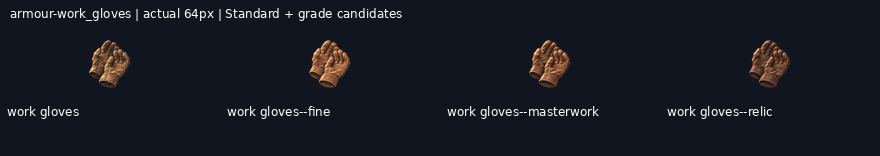
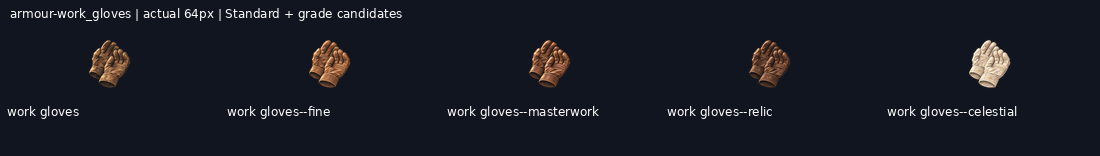
art: draw armour-work_gloves--celestial grade candidate

diff --git a/tools/art/export_nov19_grades.py b/tools/art/export_nov19_grades.py
@@ -116,6 +116,13 @@ def update_handoff(queue,progress):
         'Sources, versioned masters, exact prompts/reference hashes,256/128/64/32 exports and grade comparison sheets are retained. '
         'Standards and earlier deliveries are unchanged. This sparse checkout cannot validate omitted historical files; '
         'full-library validation/build is an integration check on a full checkout.\n\n'
+        'Tomorrow: fetch this branch and develop safely, read the latest issue 3 comments and this queue before drawing. '
+        'Skip only delivered new candidates; preserve every source, master, correction attempt and export. '
+        'Do not retry a recorded quota before its exact returned reset. Do not repeatedly resubmit moderation-blocked requests.\n\n'
+        'Peer audit: [coordination/peer-audit-2026-11-19.md](coordination/peer-audit-2026-11-19.md). '
+        'Peer58 masters/232 exports and12 canonical imports were checked. Faint alpha<8 margin residue requires versioned technical cleanup; '
+        'check its subsequent correction manifest before claiming that cleanup is complete. '
+        'Peer quota resets20 November2026 at09:45:39 Bangkok time; this does not establish this session’s quota.\n\n'
         'Remaining: '+', '.join(progress['remaining'])+'.\n\n'
         'Service-rejected requests (do not repeatedly resubmit): '+', '.join(sorted(rejected))+'.\n\n'
         'Waiting on rejected prerequisites: '+', '.join(sorted(blocked-rejected))+'.\n\n'

diff --git a/art/_archive/gear/2026-11-19-kept-blade-grades/HANDOFF.md b/art/_archive/gear/2026-11-19-kept-blade-grades/HANDOFF.md
@@ -1,17 +1,21 @@
 # Gear grade candidates
 
-**100/120 grade candidates delivered** on `art/2026-11-19-kept-blade-grades`. Shared mailbox: https://github.com/leonpentastorm/Project-Heaven-Cry/issues/3 . See claim.json for this lane’s current Standards. Released overlapping blades reuse12 peer candidates, with3 local alternatives archived.
+**101/120 grade candidates delivered** on `art/2026-11-19-kept-blade-grades`. Shared mailbox: https://github.com/leonpentastorm/Project-Heaven-Cry/issues/3 . See claim.json for this lane’s current Standards. Released overlapping blades reuse12 peer candidates, with3 local alternatives archived.
 
 Leon requested continuous candidate production; proof approval is not fabricated. All candidates remain review-candidate, production_approved:false, implementation_ready:false, with outline.review_required:true. Exact outline is measured, never asserted unless the masks match. Per-image registration is uniform scaling/translation only, without warp, silhouette masks, filled pixels or code-drawn substitutes. The generated native remains untouched.
 
 Each image is generated, shown, technically exported, validated, committed and pushed before the next. Sources, versioned masters, exact prompts/reference hashes,256/128/64/32 exports and grade comparison sheets are retained. Standards and earlier deliveries are unchanged. This sparse checkout cannot validate omitted historical files; full-library validation/build is an integration check on a full checkout.
 
-Remaining: weapon-ork_machete--masterwork, weapon-ork_machete--relic, weapon-ork_machete--celestial, weapon-war_axe--fine, weapon-war_axe--masterwork, weapon-war_axe--relic, weapon-war_axe--celestial, armour-work_gloves--celestial, armour-combat_gloves--fine, armour-combat_gloves--masterwork, armour-combat_gloves--relic, armour-combat_gloves--celestial, armour-field_boots--fine, armour-field_boots--masterwork, armour-field_boots--relic, armour-field_boots--celestial, armour-heavy_boots--fine, armour-heavy_boots--masterwork, armour-heavy_boots--relic, armour-heavy_boots--celestial.
+Tomorrow: fetch this branch and develop safely, read the latest issue 3 comments and this queue before drawing. Skip only delivered new candidates; preserve every source, master, correction attempt and export. Do not retry a recorded quota before its exact returned reset. Do not repeatedly resubmit moderation-blocked requests.
+
+Peer audit: [coordination/peer-audit-2026-11-19.md](coordination/peer-audit-2026-11-19.md). Peer58 masters/232 exports and12 canonical imports were checked. Faint alpha<8 margin residue requires versioned technical cleanup; check its subsequent correction manifest before claiming that cleanup is complete. Peer quota resets20 November2026 at09:45:39 Bangkok time; this does not establish this session’s quota.
+
+Remaining: weapon-ork_machete--masterwork, weapon-ork_machete--relic, weapon-ork_machete--celestial, weapon-war_axe--fine, weapon-war_axe--masterwork, weapon-war_axe--relic, weapon-war_axe--celestial, armour-combat_gloves--fine, armour-combat_gloves--masterwork, armour-combat_gloves--relic, armour-combat_gloves--celestial, armour-field_boots--fine, armour-field_boots--masterwork, armour-field_boots--relic, armour-field_boots--celestial, armour-heavy_boots--fine, armour-heavy_boots--masterwork, armour-heavy_boots--relic, armour-heavy_boots--celestial.
 
 Service-rejected requests (do not repeatedly resubmit): weapon-ork_machete--masterwork, weapon-war_axe--fine.
 
 Waiting on rejected prerequisites: weapon-ork_machete--celestial, weapon-ork_machete--relic, weapon-war_axe--celestial, weapon-war_axe--masterwork, weapon-war_axe--relic.
 
-Ready independent next steps, in queue order: armour-work_gloves--celestial, armour-combat_gloves--fine, armour-field_boots--fine, armour-heavy_boots--fine. Other pending grades follow their preceding grade.
+Ready independent next steps, in queue order: armour-combat_gloves--fine, armour-field_boots--fine, armour-heavy_boots--fine. Other pending grades follow their preceding grade.
 
 Runtime handoff: implementation_ready:false records review status but does not gate the web asset builder. The builder emits grade asset keys; the current UI gear resolver still needs grade-aware selection. Do not claim that runtime grade selection is implemented by these art deliveries.

diff --git a/art/_archive/gear/2026-11-19-kept-blade-grades/coordination/peer-audit-2026-11-19.md b/art/_archive/gear/2026-11-19-kept-blade-grades/coordination/peer-audit-2026-11-19.md
@@ -1,0 +1,14 @@
+# Peer grade delivery audit — 19 November 2026
+
+Peer branch `art/2026-11-19-grade-proof`, pinned commit `676764cfd29663c386e3b79538eef046153cedd3`, was fetched and checked directly from Git objects by a separate read-only audit worker. Main art branch at this checkpoint: `6229d5342` (100 exclusive candidates).
+
+- Verified 58 delivered records, 58 native sources, 58 candidate masters, 58 production masters, 232 exports, recorded hashes/checksums, and 114 selected reference paths. Selected provenance paths are repository-relative. The two unselected historical proof trial JSONs still contain absolute references; their selected retry records are portable.
+- Our 12 canonical reused blade grade images and 48 exports matched the peer byte-for-byte before technical cleanup. These are three four-grade sets, not 12 sets. They are imports, not additional drawings in our exclusive count. Active lane manifests do not overlap.
+- Technical issue: every peer master has very faint alpha residue inside its required 50px clear margin. Original full-alpha margins are 1–40px. Residue in the clear-margin band has maximum alpha 1 on 56 masters and alpha 2 on two; none has alpha >= 8. Applying only the normal technical alpha<8 cleanup gives all 58 a clear margin of 81–184px without changing any solid silhouette. Prior outermost pixel guards and exports pass. Do not describe the original masters as a strict 50px-alpha-margin pass.
+- Cleanup is planned on this branch, preserving original native images, candidate masters, production masters, exports and metadata in versioned archives. Approval remains false and exact-outline review remains pending.
+- Peer image quota: `usage_limit_reached`, reset epoch `1795142739` = **20 November 2026, 02:45:39 UTC / 09:45:39 Bangkok time**. This is the peer's reported quota; it does not establish this session's quota. This session was still generating successfully at the checkpoint.
+- Peer has eight moderation-blocked/dependent grades: Drifter Masterwork and above, Crossbow Masterwork and above, Repeating Crossbow Relic and above. Ten headgear jobs were separately released: Ballistic Helmet Relic/Celestial, Night Goggles four grades, Gas Mask four grades. Read issue 3 before taking over.
+
+Pinned distinct-count arithmetic: 150 base/unique candidates + 58 peer grades + 100 exclusive grades = **308/871**. Shared canonical imports, UI exports, unsuccessful attempts and archived alternatives do not count again. This is a checkpoint; read progress.json for subsequent drawings.
+
+Shared communication: https://github.com/leonpentastorm/Project-Heaven-Cry/issues/3 . The current queue, exact prompts, dependencies and remaining IDs are in the parent archive. Full historical validation remains limited by sparse checkout; the targeted lane validator checks delivered source/master/prompt/reference/export hashes and pixels.
